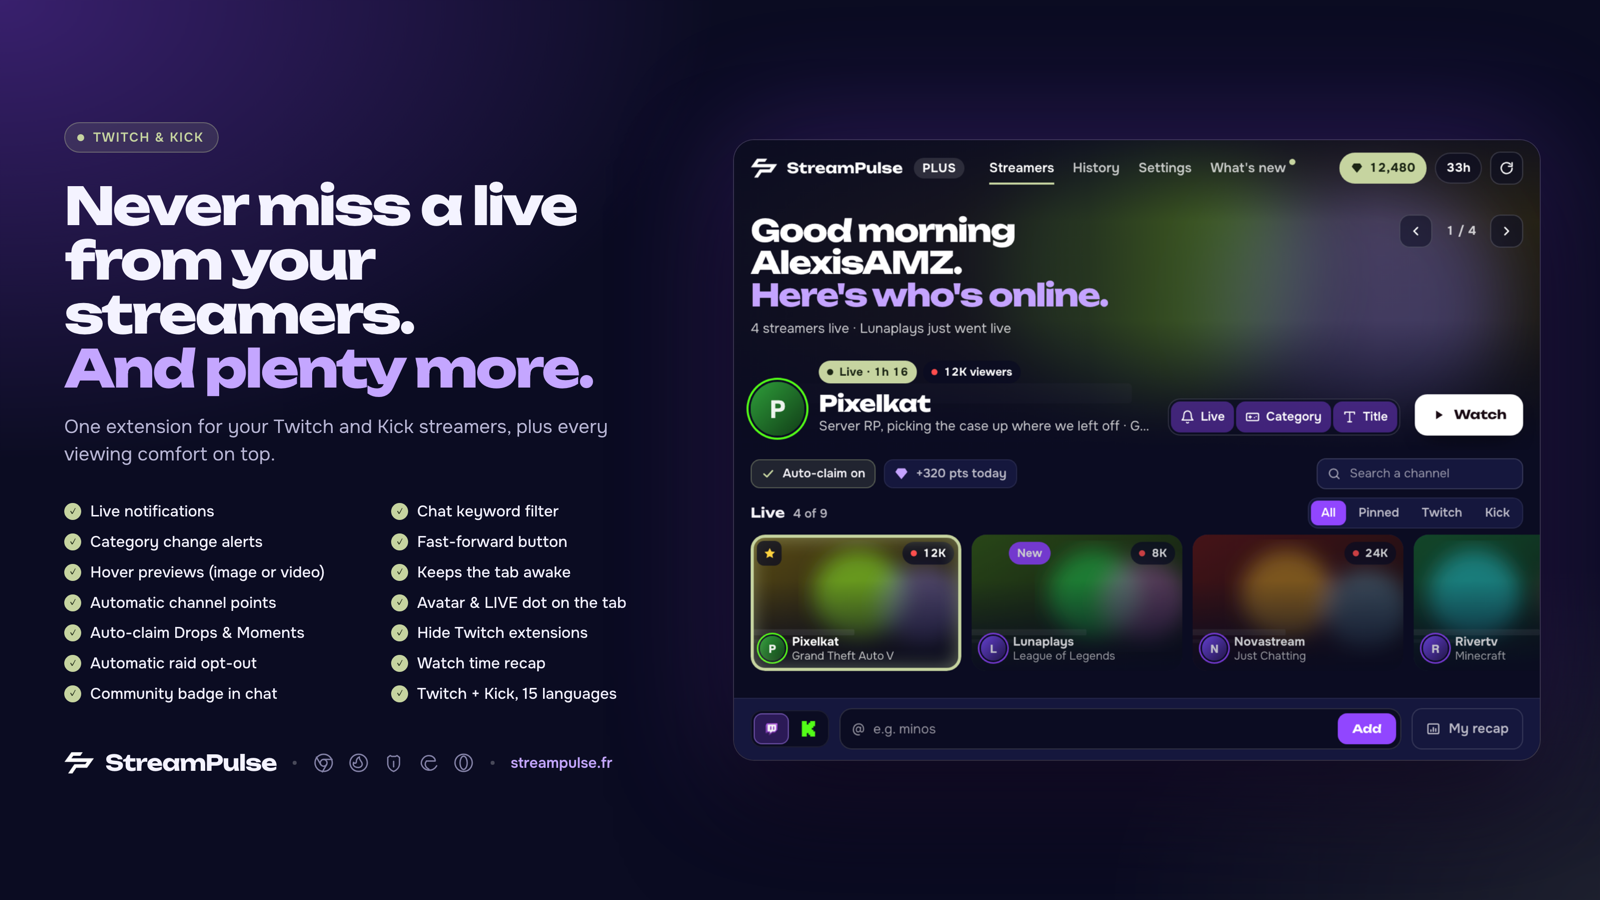
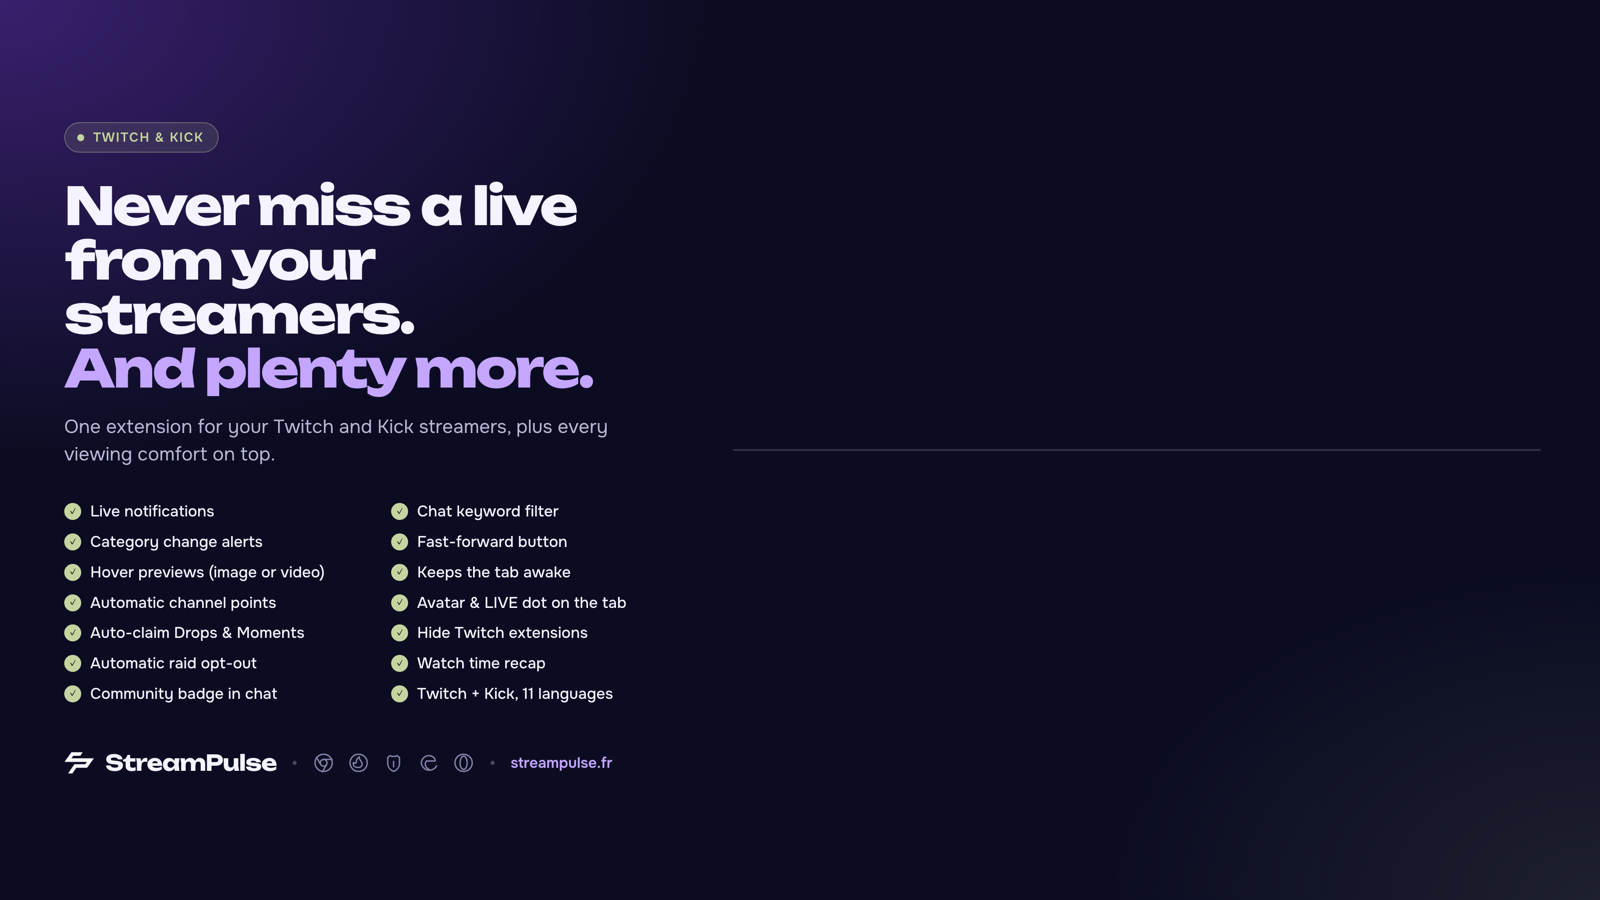
docs: comptes de langues alignés sur les 11 publiées
Le produit est en 11 langues depuis la 26.9.30 : badge du README,
RESTE-A-FAIRE (état courant, _locales fait), CHROMEWEBSTORE (captures,
listing traduit, retrait des sections ID/NL/SV/CS), doc croissance,
tweets et visuels X régénérés (« 11 langues »), commentaires des
scripts de release mis à jour.

Changed region(s): [[0.4688, 0.1244, 0.9688, 0.7467], [0.4375, 0.7778, 0.9688, 0.8711], [0.3125, 0.7467, 0.375, 0.7778]]

diff --git a/js/changelog.js b/js/changelog.js
@@ -13,7 +13,7 @@ import { initI18n, applyTranslations, t, resolveLocale, getCurrentLanguage } fro
  * Texte d'une note de version dans la langue choisie par l'utilisateur.
  *
  * Les notes ne vivent pas dans translations.js : elles changent à chaque
- * release et n'ont pas à passer le contrôle de complétude sur 16 langues.
+ * release et n'ont pas à passer le contrôle de complétude sur les 11 langues.
  */
 function localized(value) {
   return pickLocalized(value, getCurrentLanguage());

diff --git a/RESTE-A-FAIRE.md b/RESTE-A-FAIRE.md
@@ -1,29 +1,21 @@
 # Reste à faire
 
-État au commit `eba6094` (26.8.11). Chiffres mesurés sur le dépôt, pas estimés.
+État au commit `eba6094` (26.8.11), sections 1 et 3 mises à jour au 2026-10-01
+(26.9.31). Chiffres mesurés sur le dépôt, pas estimés.
 
 ---
 
 ## 1. Traductions : FAIT
 
-Les 16 langues sont complètes : 357 clés chacune, 0 clé manquante.
-15 langues sont publiées (`ready: true`), seul `hi` (hindi) reste en
-`ready: false` (10 % de chaînes encore identiques à l'anglais).
+Les 11 langues sont complètes : 1079 clés chacune, 0 clé manquante, toutes
+publiées (`ready: true`) : `fr`, `en`, `es`, `pt-BR`, `de`, `it`, `pl`, `tr`,
+`ru`, `ja`, `ko`.
 
-| Langue | Prête | | Langue | Prête |
-|---|---|---|---|---|
-| `fr` | ✅ | | `id` | ✅ |
-| `en` | ✅ | | `nl` | ✅ |
-| `es` | ✅ | | `hi` | ❌ (ready:false) |
-| `pt-BR` | ✅ | | `sv` | ✅ |
-| `de` | ✅ | | `cs` | ✅ |
-| `it` | ✅ | | `tr` | ✅ |
-| `pl` | ✅ | | `ru` | ✅ |
-| `ja` | ✅ | | `ko` | ✅ |
-
-Pour publier `hi` une fois traduit : créer `i18n/lang/hi.js`, l'importer dans
-`i18n/translations.js`, le déclarer (`ready: true`) dans `i18n/meta.js`, puis
-`npm run verify`.
+Les 5 langues du début (`id`, `nl`, `sv`, `cs`, `hi`) ont été retirées du
+produit à la 26.9.30 : leurs traductions n'étaient pas assez complètes pour
+être publiées. Pour ajouter une langue : créer `i18n/lang/<code>.js`,
+l'importer dans `i18n/translations.js`, la déclarer (`ready: true`) dans
+`i18n/meta.js`, puis `npm run verify`.
 
 ---
 
@@ -35,14 +27,11 @@ refuse une release avec des textes incomplets.
 
 ---
 
-## 3. `_locales/` limité à 4 langues : partiel
+## 3. `_locales/` : fait
 
-`_locales/` contient `en`, `es`, `fr`, `pt_BR` (2 clés : nom et description de
-la fiche Chrome Web Store). Les 12 autres langues voient la fiche en anglais.
-
-Rien ne casse (`default_locale: "en"`), mais la fiche Store ne suit pas les
-15 langues publiées dans l'interface. 24 traductions à faire (2 × 12), texte
-marketing à soigner.
+`_locales/` couvre les 11 langues de l'interface (2 clés chacune : nom et
+description de la fiche Chrome Web Store), vérifié par `verify.mjs`
+(`default_locale: "en"` reste le repli).
 
 ---
 
@@ -77,7 +66,7 @@ jamais été observées en fonctionnement :
 ## Commandes utiles
 
 ```bash
-npm run verify   # 11 contrôles, dont complétude des 16 langues
+npm run verify   # 23 contrôles, dont complétude des 11 langues
 npm run lint     # 0 erreur, 33 warnings préexistants
 npm run build    # lint + zip depuis `git ls-files`
 

diff --git a/docs/croissance/tache5-fiche-cws.md b/docs/croissance/tache5-fiche-cws.md
@@ -3,7 +3,12 @@
 Date : 2026-09-28. Complément à `CHROMEWEBSTORE.md` (qui reste la référence ;
 les textes ci-dessous s'y substituent champ par champ).
 
-Constat : la fiche est déjà traduite en 15 langues et bien structurée. Le
+> Note (2026-10-01) : depuis la 26.9.30, le produit est en **11 langues**
+> (`id`, `nl`, `sv`, `cs`, `hi` retirées). Les décomptes ci-dessous, écrits à
+> la date du document, ont été actualisés pour décrire l'état courant.
+
+Constat : la fiche est déjà traduite (15 langues à la date du document, 11
+aujourd'hui) et bien structurée. Le
 travail restant porte sur (1) la description courte, trop courte et liste de
 fonctions plutôt que bénéfice, (2) la première capture, (3) la vérification
 des langues dans la console.
@@ -36,10 +41,10 @@ déjà les mots recherchés : Twitch, Drops, Points, Alerts).
    dans le store, aucune régénération locale ne la retire.
 2. **Première capture = tableau de bord**, car c'est l'écran le plus vu.
    Regénérer les captures localisées pour que la capture 1 ne soit plus la
-   version anglaise manuelle partagée par les 15 dossiers :
+   version anglaise manuelle partagée par les 11 dossiers :
 
    ```bash
-   npm run store:assets   # les 15 langues
+   npm run store:assets   # les 11 langues
    ```
 
 3. **Grande tuile promotionnelle** (`images/promo/marquee.png`, 1400×560) :
@@ -50,8 +55,8 @@ déjà les mots recherchés : Twitch, Drops, Points, Alerts).
 
 ## 3. Langues de la fiche — checklist console
 
-Le dépôt couvre 15 langues (CS, DE, EN, ES, FR, ID, IT, JA, KO, NL, PL,
-PT-BR, RU, SV, TR). Dans la console, chaque langue doit avoir : nom,
+Le dépôt couvre 11 langues (DE, EN, ES, FR, IT, JA, KO, PL,
+PT-BR, RU, TR). Dans la console, chaque langue doit avoir : nom,
 description courte (nouvelle version), description longue, 3 captures. À
 vérifier une par une, puis :
 

diff --git a/README.md b/README.md
@@ -13,7 +13,7 @@
   <a href="https://chromewebstore.google.com/detail/streampulse-multi-streame/ipfhbfabadbpkjimhdcjadopnahdpddh"><img src="https://img.shields.io/chrome-web-store/rating/ipfhbfabadbpkjimhdcjadopnahdpddh?label=rating&color=9146FF" alt="Chrome Web Store rating"></a>
   <a href="https://addons.mozilla.org/firefox/addon/streampulse-twitch-kick/"><img src="https://img.shields.io/amo/v/streampulse-twitch-kick?label=Firefox&logo=firefoxbrowser&logoColor=white&color=FF7139" alt="Firefox Add-ons"></a>
   <a href="https://github.com/AlexisAMZ/streampulse-extension/stargazers"><img src="https://img.shields.io/github/stars/AlexisAMZ/streampulse-extension?style=flat&logo=github&color=53FC18" alt="GitHub stars"></a>
-  <img src="https://img.shields.io/badge/languages-16-lightgrey" alt="16 languages">
+  <img src="https://img.shields.io/badge/languages-11-lightgrey" alt="11 languages">
   <a href="LICENSE"><img src="https://img.shields.io/badge/license-GPL--3.0-blue" alt="License: GPL-3.0"></a>
 </p>
 

diff --git a/images/promo/x/tweets.md b/images/promo/x/tweets.md
@@ -10,7 +10,7 @@ StreamPulse fait peau neuve 💜
 
 Le streamer en live s'affiche en grand, tes lives défilent en dessous, et tu gardes un œil sur tes points et tes Drops du jour.
 
-Twitch & Kick · 15 langues
+Twitch & Kick · 11 langues
 👉 streampulse.fr
 
 **Version courte**
@@ -27,7 +27,7 @@ StreamPulse has a brand new look 💜
 
 The streamer who's live takes the stage, your other lives scroll below, and today's points and Drops are one glance away.
 
-Twitch & Kick · 15 languages
+Twitch & Kick · 11 languages
 👉 streampulse.fr
 
 **Short version**
